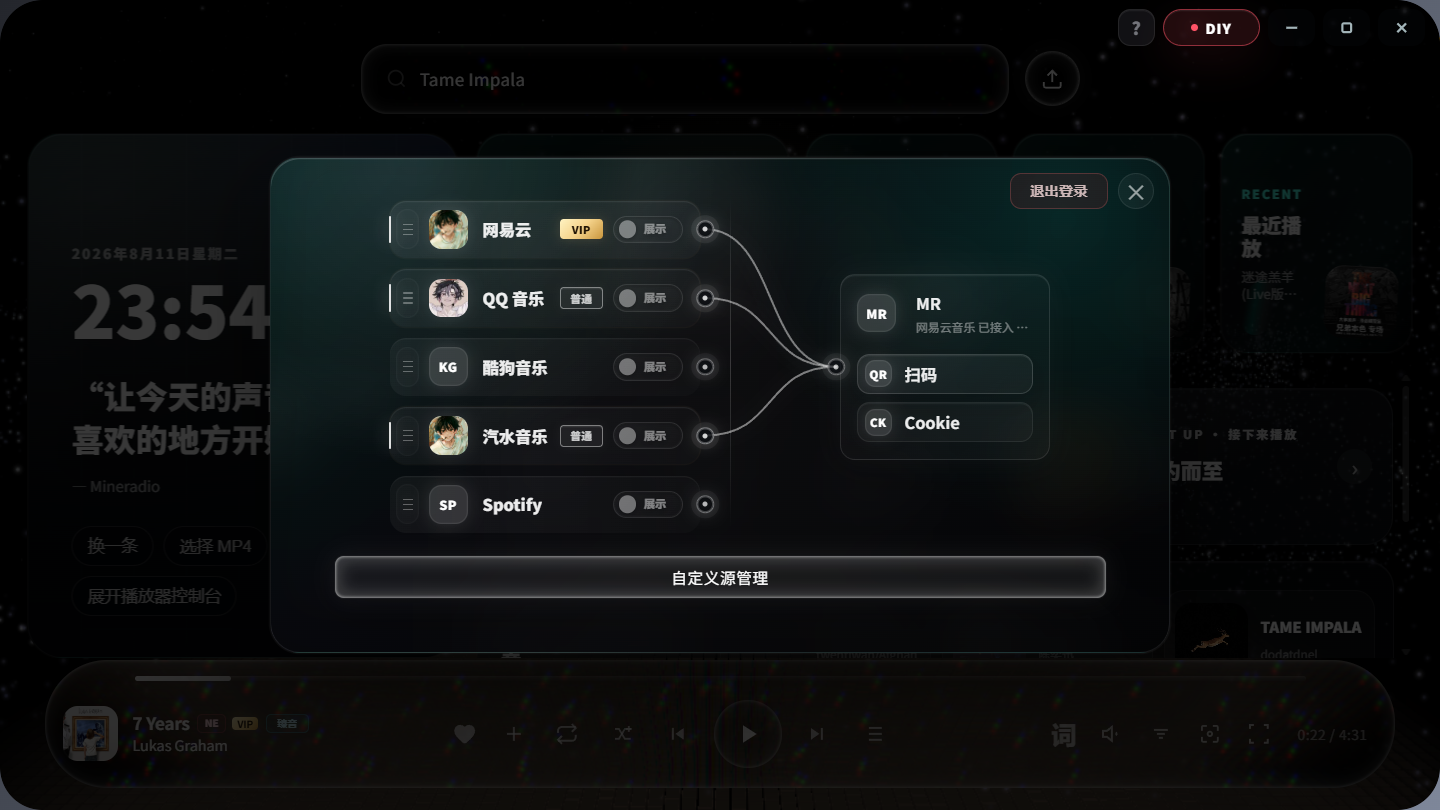
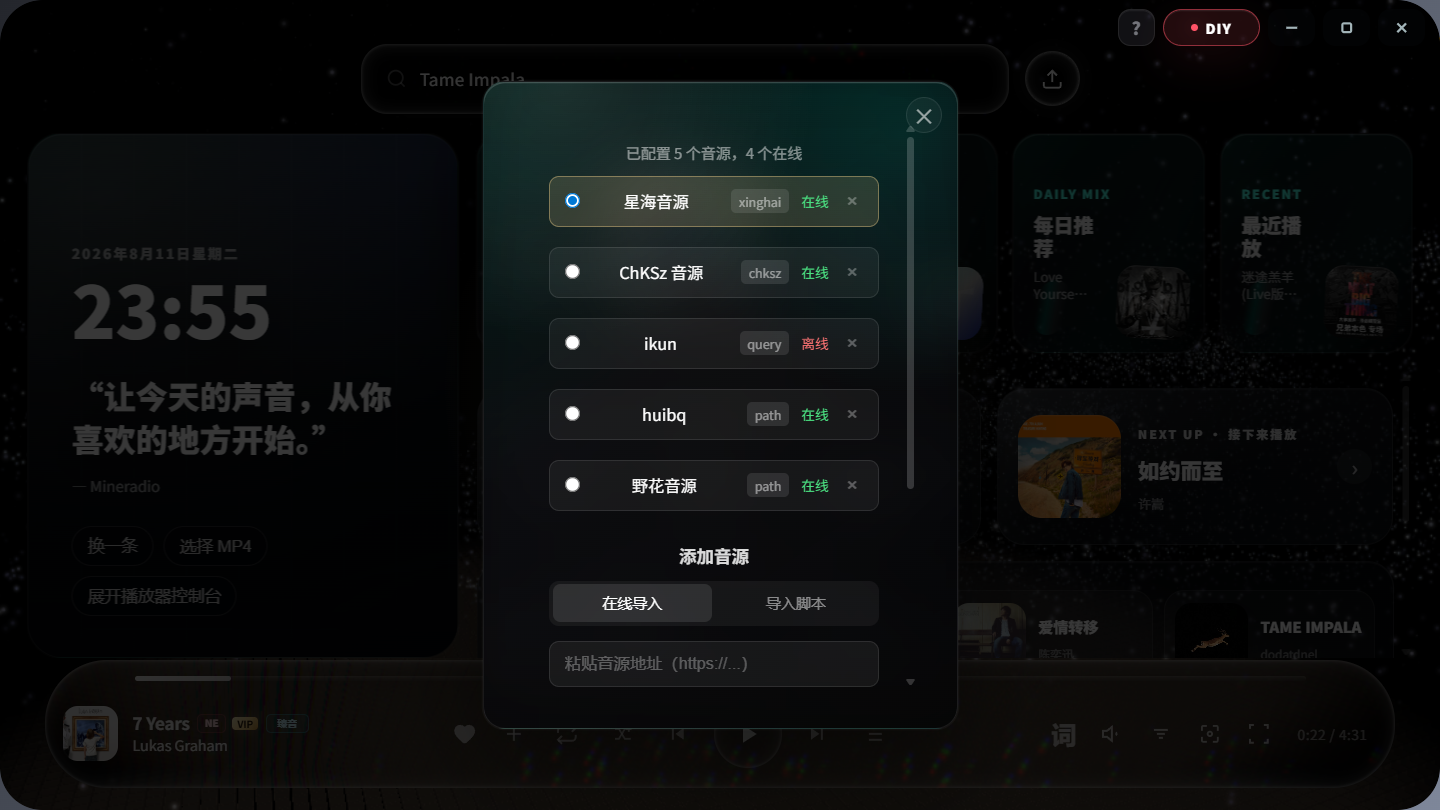
docs: 修正自定义源截图标签对应关系（入口图与管理界面图互换）

diff --git a/README.md b/README.md
@@ -57,11 +57,11 @@ Windows 桌面沉浸式音乐播放器，融合天气电台、歌词舞台、粒
 
 ### 自定义源管理
 
-点击播放器内的 **「自定义源管理」** 按钮，即可进入自定义音源管理界面，自由配置落雪兼容音源：
+播放器内提供 **「自定义源管理」** 入口按钮，点击后进入自定义音源管理界面，自由配置落雪兼容音源：
 
-| 自定义源管理界面 | 自定义源管理入口 |
+| 自定义源管理入口 | 自定义源管理界面 |
 |:---:|:---:|
-| ![自定义源管理](docs/screenshots/custom-source-management.png) | ![自定义源管理入口](docs/screenshots/custom-source-entry.png) |
+| ![自定义源管理入口](docs/screenshots/custom-source-entry.png) | ![自定义源管理](docs/screenshots/custom-source-management.png) |
 
 > 支持添加 / 编辑 / 启停多个音源后端，并为每个音源单独设置音质档位与超时时间。
 
